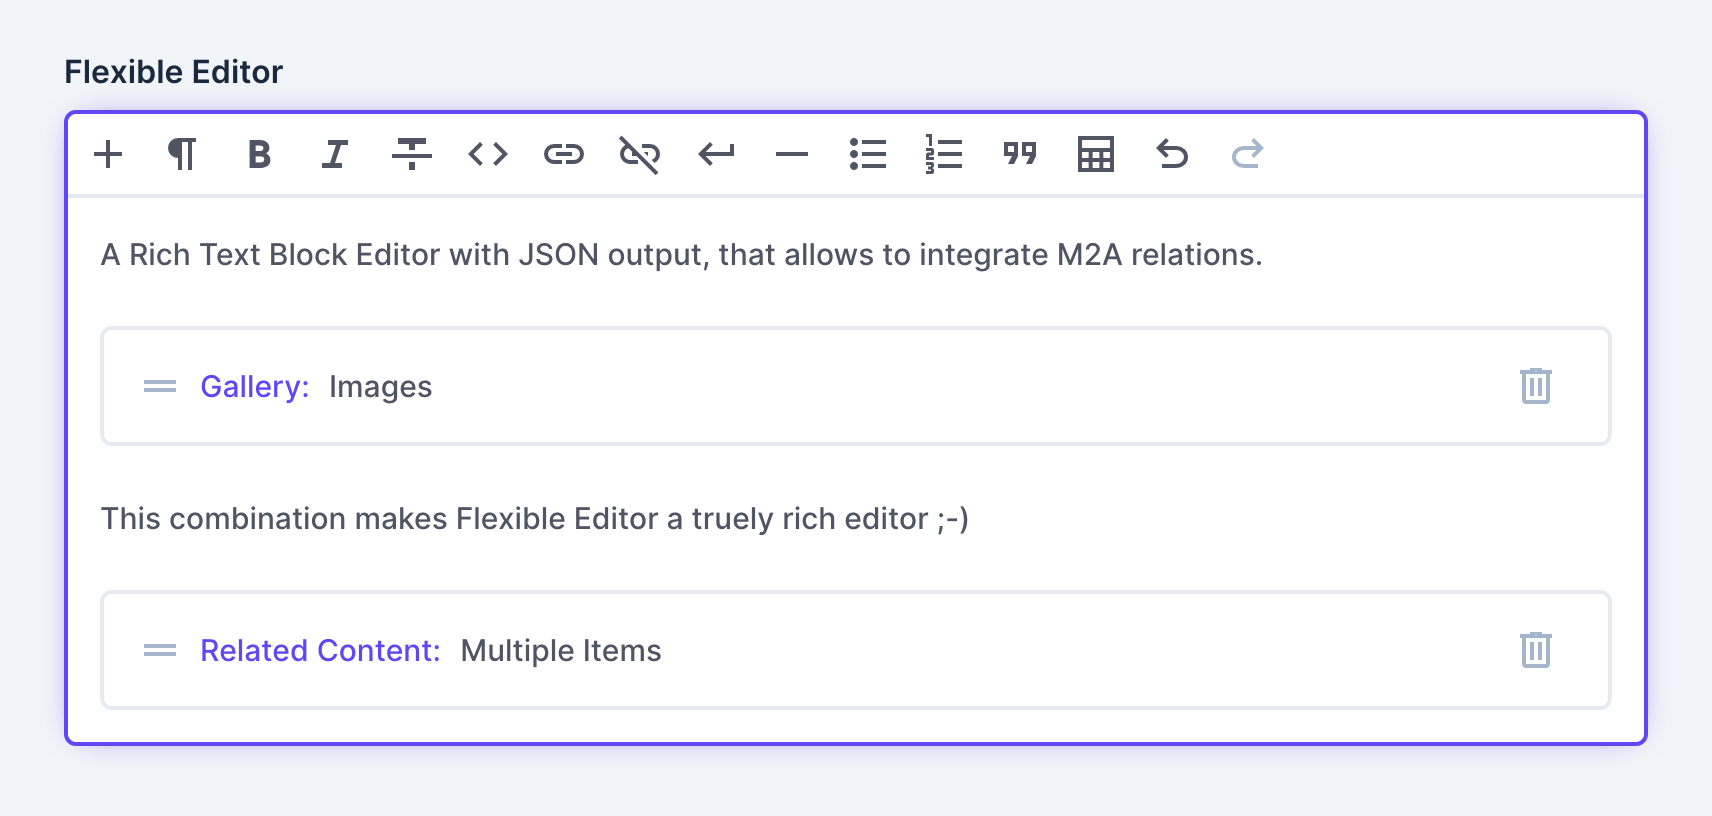
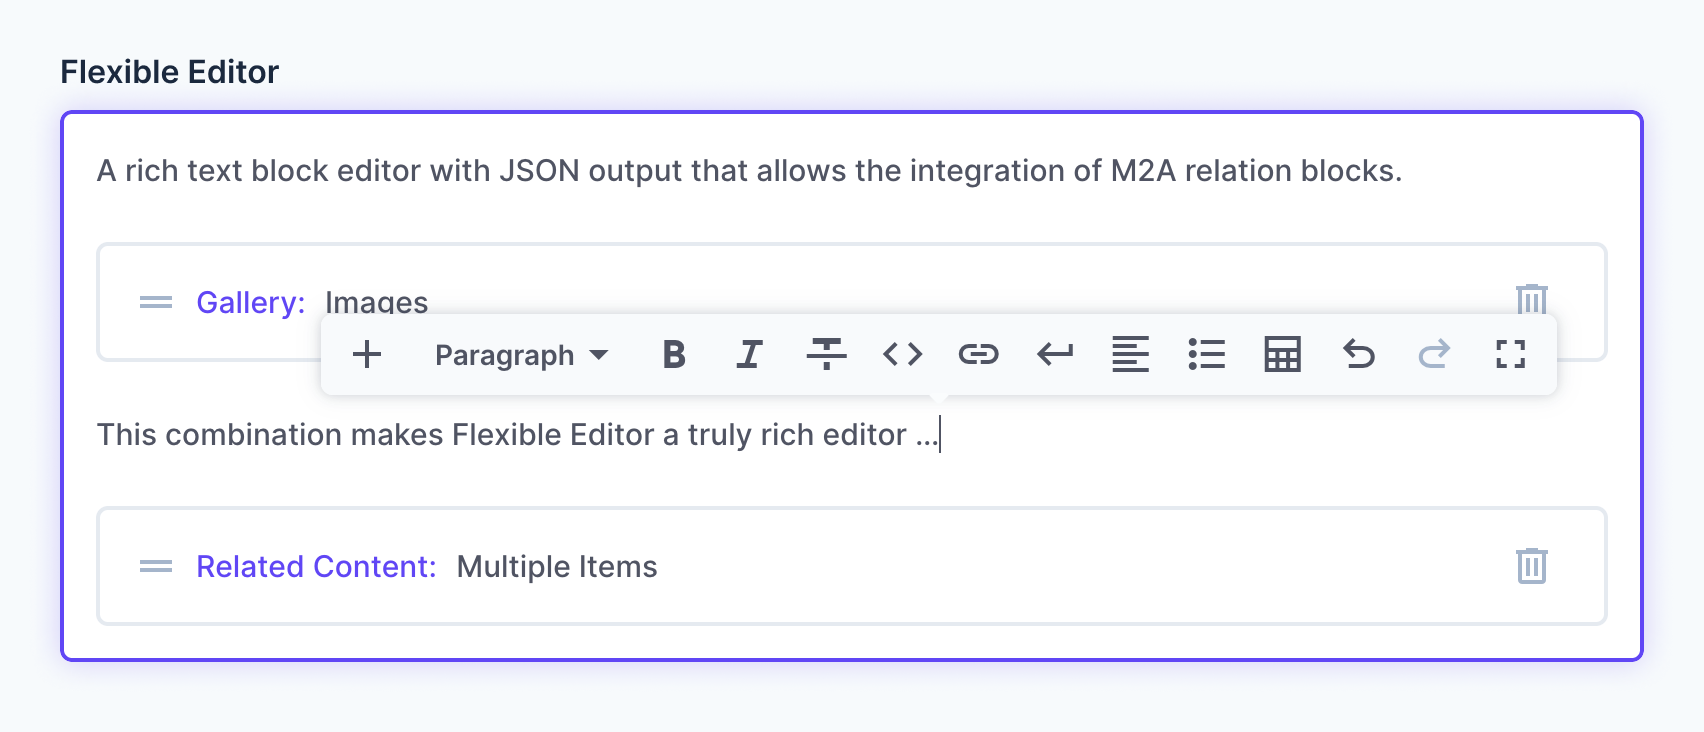
update documentation

diff --git a/src/interface/i18n/custom-messages.ts b/src/interface/i18n/custom-messages.ts
@@ -4,7 +4,7 @@
 export default {
     // NOTE: [extension-description] Sync description with GitHub, README.md and package.json
     extension_description:
-        "A Rich Text Editor (WYSIWYG) with JSON output, that allows to integrate M2A relations to make it extremely flexible.",
+        "A rich text editor (WYSIWYG) with JSON output that allows the integration of M2A relations to make it extremely flexible.",
     tools_title: "Tools",
     m2a_field: "M2A Reference Field",
     input_mode: {

diff --git a/README.md b/README.md
@@ -4,13 +4,13 @@
 
 <!-- NOTE: [extension-description] Sync description with GitHub, custom-messages.ts and package.json -->
 
-A Rich Text Editor (WYSIWYG) with JSON output, that allows to integrate M2A relations to make it extremely flexible.
+A rich text editor (WYSIWYG) with JSON output that allows the integration of M2A relations to make it extremely flexible.
 
 > https://github.com/formfcw/directus-extension-flexible-editor/assets/78852214/b418c9a7-44c0-43b1-b5ad-6673d09a9066
 >
 > _(Demo Video)_
 
-Under the hood, it integrates the [Tiptap](https://github.com/ueberdosis/tiptap) editor as an extension into the [Directus](https://github.com/directus/directus) app and utilizes an optional many-to-any (M2A) field to place and link relation nodes in the editor. This combination makes Flexible Editor a truely rich editor.
+Under the hood, it integrates the [Tiptap](https://github.com/ueberdosis/tiptap) editor as an extension to the [Directus](https://github.com/directus/directus) app and uses an optional many-to-any (M2A) field to place and link relation nodes in the editor. This combination makes Flexible Editor a truly rich editor.
 
 ## Installation
 
@@ -19,7 +19,7 @@ Under the hood, it integrates the [Tiptap](https://github.com/ueberdosis/tiptap)
 
 ## Basic Usage
 
-In your Directus app simply click the `Create Field` button and choose `Flexible Editor`.
+In your Directus app simply click the `Create Field` button and select `Flexible Editor`.
 
 > https://github.com/formfcw/directus-extension-flexible-editor/assets/78852214/62592c31-498f-4879-b231-fb2f2802777c
 >
@@ -29,26 +29,27 @@ In your Directus app simply click the `Create Field` button and choose `Flexible
 
 Navigate to the interface tab to adjust the settings.
 
-| Option                    | Description                                                                                                                                                                             |
-| ------------------------- | --------------------------------------------------------------------------------------------------------------------------------------------------------------------------------------- |
-| M2A Reference Field       | Described in detail below _(Usage with relation nodes)_                                                                                                                                 |
-| Placeholder               | Display a placeholder text when empty                                                                                                                                                   |
-| Tools                     | Select the editor tools you want to use                                                                                                                                                 |
-| Formats Button Appearance | Display the active format name instead of just an icon                                                                                                                                  |
-| Input Mode                | _Multi-line text_ … Default behavior<br>_Single-line text_ … Turns into an inline editor that only allows inline marks/blocks                                                           |
-| Editor Height             | _Grow till Overflow_ … The height grows with its content as long as it remains in the viewport<br>_Grow_ … The height grows with its content<br>_Fixed_ … The editor has a fixed height |
-| Font                      | Font that is used in the editor                                                                                                                                                         |
-| Spellcheck                | Enable spell checking in the editor                                                                                                                                                     |
+| Option                    | Description                                                                                                                                                                                           |
+| ------------------------- | ----------------------------------------------------------------------------------------------------------------------------------------------------------------------------------------------------- |
+| M2A Reference Field       | Described in detail below _(Usage with relation nodes)_                                                                                                                                               |
+| Placeholder               | Display a placeholder text when empty                                                                                                                                                                 |
+| Tools                     | Select the editor tools you want to use                                                                                                                                                               |
+| Toolbar                   | _Static_ … The toolbar appears at the top of the editor<br>_Sticky_ … The toolbar stays at the top of the viewport as you scroll<br>_Floating_ … The toolbar floats above the current cursor position |
+| Formats Button Appearance | Display the active format name instead of just an icon                                                                                                                                                |
+| Input Mode                | _Multi-line text_ … Default behavior<br>_Single-line text_ … Turns into an inline editor that only allows inline marks/blocks                                                                         |
+| Editor Height             | _Grow till Overflow_ … The height grows with its content as long as it remains in the viewport<br>_Grow_ … The height grows with its content<br>_Fixed_ … The editor has a fixed height               |
+| Font                      | Font that is used in the editor                                                                                                                                                                       |
+| Spellcheck                | Enable spell checking in the editor                                                                                                                                                                   |
 
 ### Display
 
-Navigate to the `Display` tab and select `Flexible Editor` to display the editor content as plain text inside the Directus app.
+Navigate to the `Display` tab and select `Flexible Editor` to display the editor content as plain text in the Directus app.
 
 ## Usage with relation nodes
 
 <!-- Sync heading with link above `#usage-with-relation-nodes` -->
 
-You can insert items from your Directus collections into the Flexible Editor. This is optional but gives you extreme flexibility when creating rich content. Therefore, you need to add a many-to-any (M2A) field, the editor field can connect to. For Flexible Editor to work this way, you must create the junction collection before adding a M2A field.
+You can insert items from your Directus collections into the Flexible Editor. This is optional but gives you extreme flexibility when creating rich content. To do this, you need to add a many-to-any (M2A) field, that the editor field can connect to. For Flexible Editor to work in this way, you must create the junction collection before adding a M2A field.
 
 > https://github.com/formfcw/directus-extension-flexible-editor/assets/78852214/986ce5b1-cdda-4607-bea9-26412f942938
 >
@@ -56,25 +57,25 @@ You can insert items from your Directus collections into the Flexible Editor. Th
 
 1. Create a new (junction) collection and give it a name like `xxxx_editor_nodes` and set the `Type` of the Primary Key to `Generate UUID`. Finish the setup to create the collection.
 
-2. Open the data model of the collection you want to add Flexible Editor to and click `Create Field in Advanced Mode` and select `Many to Any Relationship`.
+2. Open the data model of the collection to which you want to add Flexible Editor, click `Create Field in Advanced Mode`, and select `Many to Any Relationship`.
 
-3. Give the field a name like `editor_nodes` and on the `Relationship` tab, uncheck the `Auto Fill` option, so you can select the junction collection you created earlier manually (like `xxxx_editor_nodes`). Select the `Related Collections` you want to integrate into your Flexible Editor field. You don’t need to set a `sort` field, but you want to set the `Relational Triggers` to `cascade` when deleting or deselecting an item.
+3. Enter a name for the field, such as `editor_nodes` and uncheck `Auto Fill` on the `Relationship` tab, so that you can manually select the junction collection you created earlier (such as `xxxx_editor_nodes`). Select the `Related Collections` you want to integrate into your Flexible Editor field. You don’t need to set a `sort` field, but you do want to set the `Relational Triggers` to `cascade` when an item is deleted or deselected.
 
-4. On the `Field` tab, set the field `Hidden on Detail` as we manage the M2A items via Flexible Editor. Therefore no interface is required for the M2A field.
+4. On the `Field` tab, set the field to `Hidden on Detail` because we are managing the M2A items through Flexible Editor. Therefore, no interface is required for the M2A field.
 
 5. Now that you have created your M2A field, open the interface settings for your Flexible Editor field and connect to the M2A field by selecting it in the `M2A Reference Field`.
 
-6. Set the `Item Duplication Fields` for your junction collection (`xxxx_editor_nodes`) in the data model settings. This is required to make `copy & paste` or `drag & drop` work.
+6. Set the `Item Duplication Fields` for your junction collection (`xxxx_editor_nodes`) in the data model settings. This is required for `copy & paste` or `drag & drop` to work.
 
-    > **Tip**: If you setup Flexible Editor the same way on different collections, you can copy & paste the duplication settings via `Copy Raw Value` from the field menu — by clicking the “Item Duplication Fields” label.
+    > **Tip**: If you set up Flexible Editor in the same way foron different collections, you can copy and paste the duplication settings via `Copy Raw Value` from the field menu — by clicking on the “Item Duplication Fields” label.
 
 ### Things to keep in mind
 
-You cannot use the same M2A junction collection for multiple collections (in which you use Flexible Editor). This would only work with an any-to-any relationship, which Directus doesn't support at the time of writing.
+You cannot use the same M2A junction collection for multiple collections (where you use Flexible Editor). This would only work with an any-to-any relationship, which Directus doesn't support at the time of writing.
 
 You should not set `Item Duplication Fields` for nested Flexible Editor fields as they are managed by their own junction collections.
 
-If you want to duplicate nested M2A items (e.g. a Related Content collection, that relates to multiple other collection items) you only want to duplicate the IDs (in the junction collection) without copying the whole item!
+If you want to duplicate nested M2A items (e.g. a Related Content collection, that references several other collection items), you want to duplicate only the IDs (in the junction collection) without copying the whole item!
 
 <!-- TODO: [Stage 2][docs] Duplication -->
 
@@ -82,7 +83,7 @@ Duplication currently only works within the same editor field or between Flexibl
 
 This also means that you can use the same `M2A Reference Field` for multiple Flexible Editor fields, although this is not recommended as this will change in [future releases](https://github.com/formfcw/directus-extension-flexible-editor/discussions/categories/feature-request).
 
-The current implementation of duplicating relation nodes (M2A items) does not cover all use cases, but will be improved in [future releases](https://github.com/formfcw/directus-extension-flexible-editor/discussions/categories/feature-request). If duplication fails you should get a warning.
+The current implementation of duplicating relation nodes (M2A items) does not cover all use cases, but will be improved in [future releases](https://github.com/formfcw/directus-extension-flexible-editor/discussions/categories/feature-request). If the duplication fails, you should get a warning.
 
 ### Tutorial: Relation node with existing items
 
@@ -100,12 +101,12 @@ To render the JSON content generated by Flexible Editor you can follow the [offi
 
 ### Rendering with interactive components
 
-If you want to render your JSON content with interactive components, especially when using relation nodes, follow this [Flexible Editor Content](https://github.com/formfcw/directus-extension-flexible-editor/blob/main/content/README.md) guide.
+If you want to render your JSON content with interactive components, especially when using relation nodes, follow the [Flexible Editor Content](https://github.com/formfcw/directus-extension-flexible-editor/blob/main/content/README.md) guide.
 
 ### Rendering plain HTML or plain text
 
-Tiptap provides official functions to [`generateText()`](https://github.com/ueberdosis/tiptap/pull/1875) or `generateHTML()` from the JSON output. Note that as of this writing, there are different versions of `generateHTML()`: one for client side (`import { generateHTML } from "@tiptap/core"`) and one for server side (`import { generateHTML } from "@tiptap/html"`) rendering!
+Tiptap provides official functions to [`generateText()`](https://github.com/ueberdosis/tiptap/pull/1875) or `generateHTML()` from the JSON output. Note that as of this writing, there are different versions of `generateHTML()`: one for client-side rendering (`import { generateHTML } from "@tiptap/core"`) and one for server-side rendering (`import { generateHTML } from "@tiptap/html"`)!
 
 ## Contribution
 
-Contributions are welcome. Make sure to open an issue for bugs or start a discussion for feature requests, before you start writing code!
+Contributions are welcome. Be sure to open an issue for bugs or start a discussion for feature requests, before you start writing code!

diff --git a/content/README.md b/content/README.md
@@ -4,7 +4,7 @@ Serialize [Flexible Editor](https://github.com/ueberdosis/tiptap) JSON content w
 
 ## Installation
 
-Since this is included in the Flexible Editor package, you can install it the same way.
+Since it is included in the Flexible Editor package, you can install it the same way.
 
 ```sh
 # Using npm
@@ -19,13 +19,13 @@ pnpm add directus-extension-flexible-editor
 
 The Flexible Editor Content tools are available via `directus-extension-flexible-editor/content`.
 
-At the time of writing this package only provides a Vue component to render your content. But, because it depends on [tiptap-render-view](https://github.com/formfcw/tiptap-render-view), it also provides types and tools to build components for your prefered JavaScript framework.
+At the time of writing, this package only provides a Vue component to render your content. However, because it depends on [tiptap-render-view](https://github.com/formfcw/tiptap-render-view), it also provides types and tools to create components for your preferred JavaScript framework.
 
 ### Fetching and transforming the API data
 
 This is for usage with relation nodes.
 
-Since the editor field (e.g. `description`) and the corresponding “M2A Reference Field” (e.g. `editor_nodes`) are separate fields, add both fields (including the [related fields](https://docs.directus.io/reference/query.html#many-to-any-union-types)) in your Directus API request as usual.
+Since the editor field (e.g. `description`) and the corresponding “M2A Reference Field” (e.g. `editor_nodes`) are separate fields, add both fields (including the [related fields](https://docs.directus.io/reference/query.html#many-to-any-union-types)) to your Directus API request as usual.
 
 With `injectDataIntoContent()` you can merge both fields:
 
@@ -40,11 +40,11 @@ injectDataIntoContent(data.editor_nodes, data.description);
 delete data.editor_nodes;
 ```
 
-> **Tip**: In Nuxt you will call `injectDataIntoContent` in the [transform](https://nuxt.com/docs/getting-started/data-fetching#minimize-payload-size) callback to cache the result.
+> **Tip**: In Nuxt, you will call `injectDataIntoContent` in the [transform](https://nuxt.com/docs/getting-started/data-fetching#minimize-payload-size) callback to cache the result.
 
 ### Importing Flexible Editor extensions
 
-It might be useful to import an array of all tiptap extensions used by Flexible Editor and required for serialization.
+It may be useful to import an array of all tiptap extensions used by Flexible Editor that are required for serialization.
 
 ```ts
 import { serializers } from "directus-extension-flexible-editor/content";
@@ -75,7 +75,7 @@ Check out this [example on StackBlitz](https://stackblitz.com/github/formfcw/dir
     import DefinitionList from "./components/DefinitionList.vue";
     import Video from "./components/Video.vue";
 
-    // Fetching and transforming the API data
+    // Fetch and transform the API data
     const data = await fetchDirectusData();
     injectDataIntoContent(data.editor_nodes, data.description);
     delete data.editor_nodes;
@@ -104,12 +104,15 @@ Check out this [example on StackBlitz](https://stackblitz.com/github/formfcw/dir
 </script>
 ```
 
-Example of a component (`./components/DefinitionList.vue`) rendering a relation block:
+Example of a component (`./components/DefinitionList.vue`) that renders a relation block:
 
 ```vue
 <template>
     <dl>
-        <template v-for="(item, key) in data.items" :key="key">
+        <template
+            v-for="(item, key) in data.items"
+            :key="key"
+        >
             <dt>{{ item.term }}</dt>
             <dd>{{ item.definition }}</dd>
         </template>
@@ -135,4 +138,4 @@ Feel free to contribute
 
 ## Contribution
 
-Contributions are welcome. Make sure to open an issue for bugs or start a discussion for feature requests, before you start writing code!
+Contributions are welcome. Be sure to open an issue for bugs or start a discussion for feature requests, before you start writing code!
